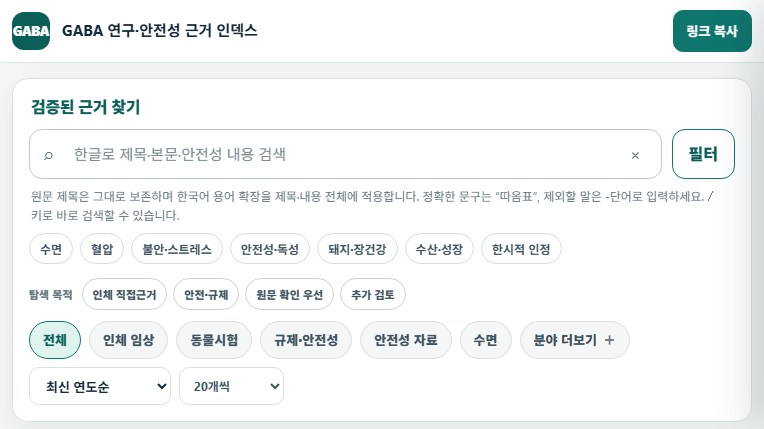
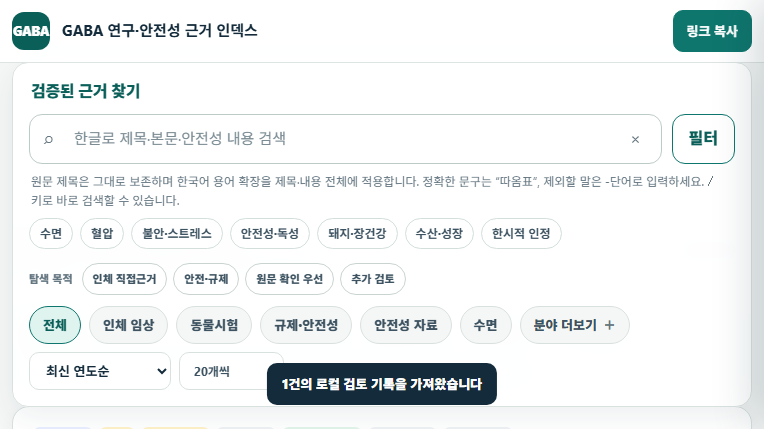
Update Site source

diff --git a/dist/server/index.js b/dist/server/index.js
@@ -223,7 +223,8 @@ const PAGE_TEMPLATE = String.raw`<!doctype html>
     .review-queue-filter.active { border-color: var(--amber); background: var(--amber-soft); color: var(--amber); }
     .review-queue-toggle { display: inline-flex; align-items: center; gap: 5px; margin-left: auto; color: var(--muted); font-size: 11px; }
     .review-queue-storage { width: 100%; color: var(--muted); font-size: 10px; }
-    .review-queue-export { min-height: 30px; padding: 5px 9px; border: 1px solid var(--teal); border-radius: 8px; background: var(--teal); color: #fff; font-size: 11px; font-weight: 800; cursor: pointer; }
+    .review-queue-export, .review-queue-import { min-height: 30px; padding: 5px 9px; border: 1px solid var(--teal); border-radius: 8px; background: var(--teal); color: #fff; font-size: 11px; font-weight: 800; cursor: pointer; }
+    .review-queue-import { border-color: var(--line); background: #fff; color: var(--teal-dark); }
     .review-queue-list { display: grid; grid-template-columns: repeat(3, minmax(0, 1fr)); gap: 10px; }
     .review-queue-card { padding: 14px; border: 1px solid var(--line); border-left: 3px solid var(--amber); border-radius: 10px; background: var(--surface-2); }
     .review-queue-card.priority-high { border-left-color: #d97706; }
@@ -1543,6 +1544,8 @@ const PAGE_TEMPLATE = String.raw`<!doctype html>
         <button class="review-queue-filter" type="button" data-review-filter="partial">부분추출</button>
         <button class="review-queue-filter" type="button" data-review-filter="missing">핵심 누락</button>
         <button class="review-queue-export" id="review-queue-export" type="button">검토 큐 내보내기</button>
+        <button class="review-queue-import" id="review-queue-import" type="button">검토 기록 가져오기</button>
+        <input id="review-queue-file" type="file" accept="application/json,.json" hidden>
         <label class="review-queue-toggle"><input id="review-hide-done" type="checkbox"> 완료 숨기기</label>
         <span class="review-queue-storage">검토 완료 표시는 현재 브라우저에만 저장되며 원본 인덱스·Sheets를 변경하지 않습니다.</span>
       </div>
@@ -2545,6 +2548,35 @@ const PAGE_TEMPLATE = String.raw`<!doctype html>
         URL.revokeObjectURL(url);
         toast(recordsPayload.length.toLocaleString("ko-KR") + "건의 검토 큐를 내보냈습니다");
       }
+      async function importReviewQueue(file) {
+        if (!file) return;
+        try {
+          var payload = JSON.parse(await file.text());
+          if (payload?.schemaVersion !== "gaba-review-queue-0.1" || !Array.isArray(payload.records)) throw new Error("schema");
+          var knownIds = new Set(records.map(function (record) { return String(record.id); }));
+          var statusMap = { "완료": "done", "추가 자료 필요": "hold", "대기": "pending" };
+          var imported = 0;
+          payload.records.forEach(function (item) {
+            var recordId = String(item.recordId || "");
+            var status = statusMap[item.reviewStatus] || item.reviewStatus;
+            if (!knownIds.has(recordId) || !["done", "hold", "pending"].includes(status)) return;
+            var note = String(item.reviewNote || "").trim().slice(0, 2000);
+            if (status === "pending" && !note) delete reviewDecisions[recordId];
+            else reviewDecisions[recordId] = {
+              status: status,
+              note: note,
+              updatedAt: new Date().toISOString(),
+              completedAt: status === "done" ? (item.completedAt || new Date().toISOString()) : null
+            };
+            imported += 1;
+          });
+          localStorage.setItem("gaba-review-decisions", JSON.stringify(reviewDecisions));
+          renderReviewQueue();
+          toast(imported.toLocaleString("ko-KR") + "건의 로컬 검토 기록을 가져왔습니다");
+        } catch (_) {
+          toast("검토 기록 JSON 형식을 확인하세요");
+        }
+      }
       function openIntelligenceDetail(recordId, historyMode) {
         var record = records.find(function (item) { return String(item.id) === String(recordId); });
         var dialog = el("intelligence-detail");
@@ -2935,6 +2967,12 @@ const PAGE_TEMPLATE = String.raw`<!doctype html>
         renderReviewQueue();
       });
       el("review-queue-export").addEventListener("click", exportReviewQueue);
+      el("review-queue-import").addEventListener("click", function () { el("review-queue-file").click(); });
+      el("review-queue-file").addEventListener("change", async function () {
+        var file = el("review-queue-file").files?.[0];
+        await importReviewQueue(file);
+        el("review-queue-file").value = "";
+      });
       document.querySelectorAll("[data-detail-review-status]").forEach(function (button) {
         button.addEventListener("click", function () {
           reviewDraftStatus = button.dataset.detailReviewStatus || "pending";
